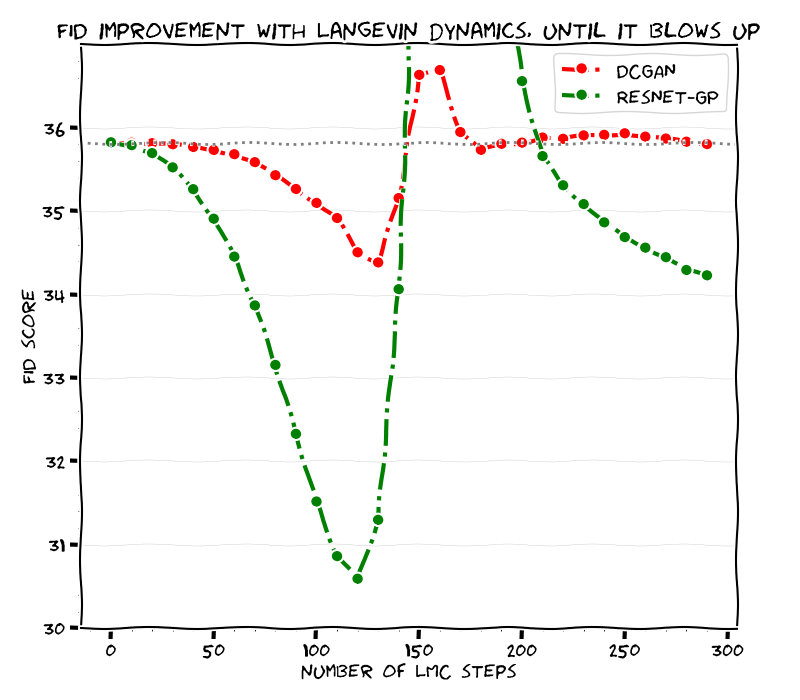
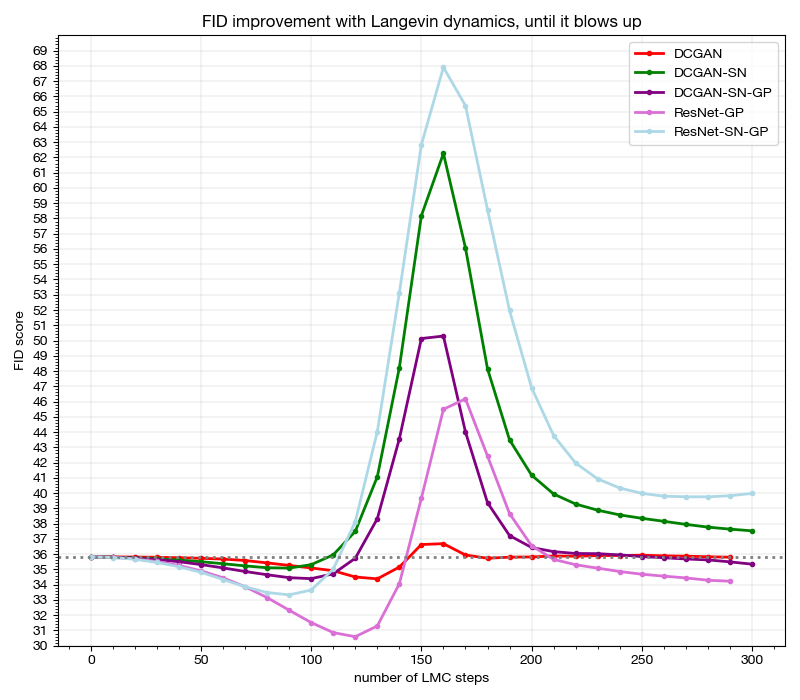
figures 2

diff --git a/draw.py b/draw.py
@@ -6,8 +6,8 @@ import os
 
 import matplotlib.pyplot as plt
 import json
-plt.xkcd()
-plt.rc('axes', prop_cycle=(cycler(color=['r', 'g', 'purple', 'orchid'])))
+#plt.xkcd()
+plt.rc('axes', prop_cycle=(cycler(color=['r', 'g', 'purple', 'orchid', 'lightblue'])))
 
 on_sshfs = True
 
@@ -23,7 +23,7 @@ model_map = {
 
 import matplotlib as mpl
 mpl.rc('font', family='Helvetica Neue')
-mpl.rc('font', family='Humor Sans')
+#mpl.rc('font', family='Humor Sans')
 def main(d_types):
     plt.figure(figsize=(8,7))
     for d in d_types:
@@ -37,23 +37,25 @@ def main(d_types):
             fid_data = json.load(f)
 
         ts, fid_train, fid_test = fid_data
-        ts = ts[:-1]
+        ts = ts[:len(fid_test)]
 
 
         # plt.plot(x_range, fid_train, '.', linestyle='-', label=model_map[d], lw=2)
 
-        plt.plot(ts, fid_test, 'o', linestyle='-.', label=model_map[d], lw=3)
+        plt.plot(ts, fid_test, '.', linestyle='-', label=model_map[d], lw=2)
 
     #plt.plot(x_range, np.ones_like(x_range) * fid_test[0], linestyle='dotted', c='gray', lw=1)
     
     plt.axhline(y=fid_test[0], linestyle='dotted', color='gray', linewidth=2, xmin=-100,xmax=100)
     plt.xlabel('number of LMC steps')
     plt.ylabel('FID score')
-    plt.ylim([30,37])
+    pmin = 30
+    pmax = 70
+    plt.ylim([pmin, pmax])
 
-    plt.yticks(np.arange(30, 37, 1))
+    plt.yticks(np.arange(pmin, pmax, 1))
 
-    plt.grid(which='major', axis='y', linewidth=0.2)
+    plt.grid(which='major', axis='both', linewidth=0.2)
     plt.minorticks_on()
 
     plt.legend()
@@ -71,9 +73,9 @@ if __name__ == '__main__':
 
 
     d_types = ['dcgan',
-                #'dcgan-sn',
-                #'dcgan-sn_gp-10_lr-2e5',
+                'dcgan-sn',
+                'dcgan-sn_gp-10_lr-2e5',
                 'resnet_gp-10',
-                #'resnet-sn_gp-10'
+                'resnet-sn_gp-10'
                 ]
     main(d_types)
